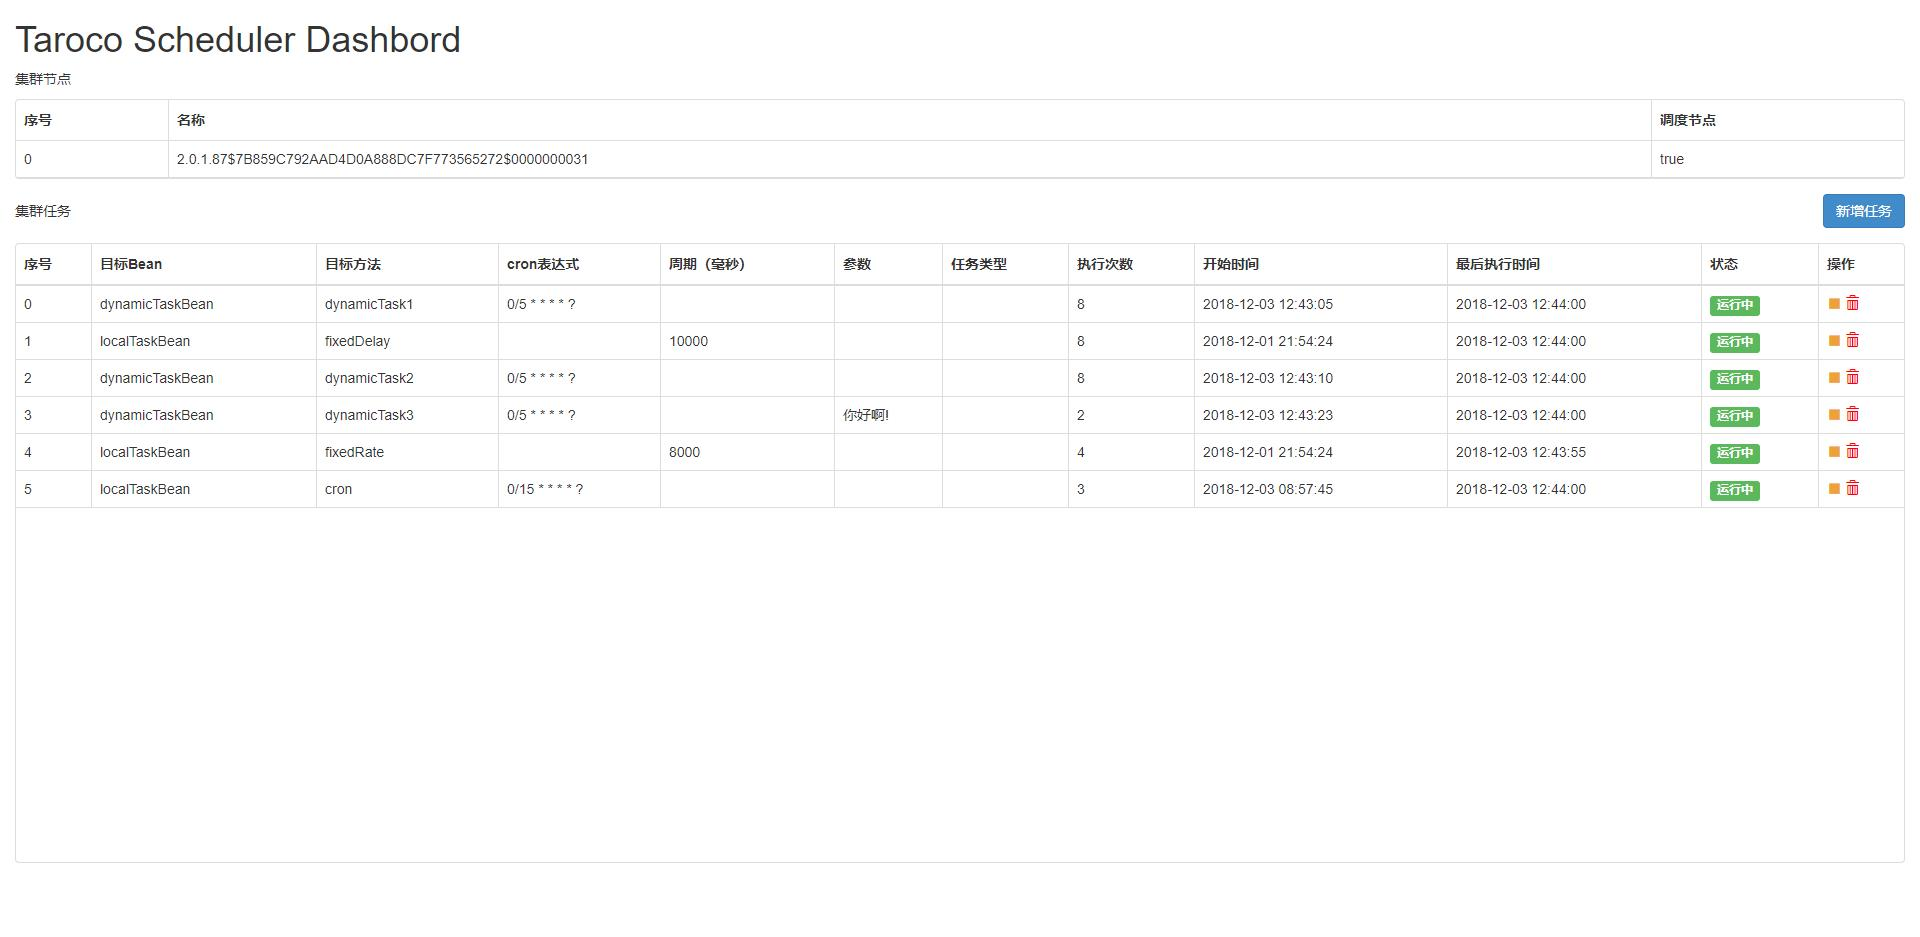
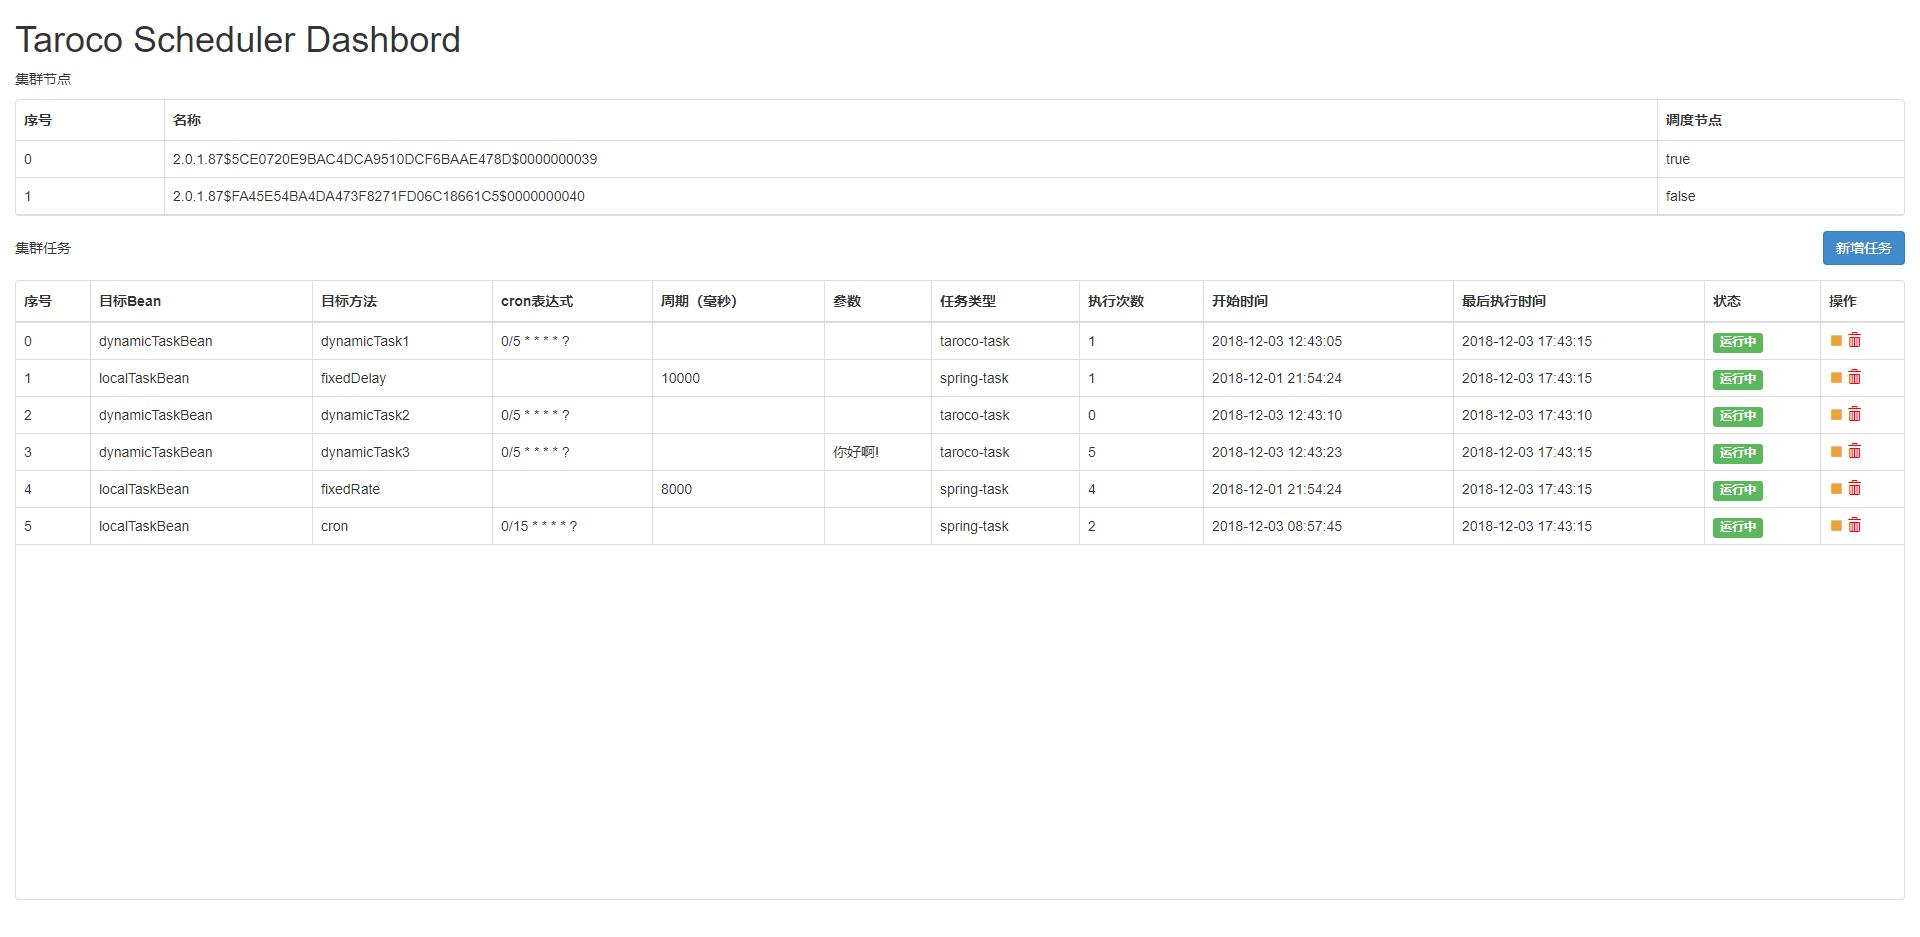
refactor: 修改任务管理界面

diff --git a/README.md b/README.md
@@ -19,6 +19,7 @@
 7. 天然支持 Spring Boot。通过 spring.factories 的方式自动加载配置类 `TarocoSchedulerAutoConfiguration`。只需要引入jar包依赖，无须显示的添加配置类扫描。
 8. 支持单个任务运行多个实例（使用扩展后缀名）。
 9. 本地静态任务（`@Scheduled` 注解的任务, 以及 xml 配置的定时任务），会自动纳入集群做统一分配执行。
+10. 新增 server 节点, 当前任务会自动平衡到新节点。
 
 ## 特别说明：
 
@@ -61,9 +62,6 @@ taroco:
 ScheduleServer.getInstance()
 ```
 ------------------------------------------------------------------------
-
-# 待优化的点
-1. 动态扩展时重新分配任务。目前虽然已经改为了轮询的分配机制，但是前提是你要事先将集群中的每个节点都启动起来，当我们新加一个server的时候，不能将原有的任务进行重新分配。
 
 # 关于
 
